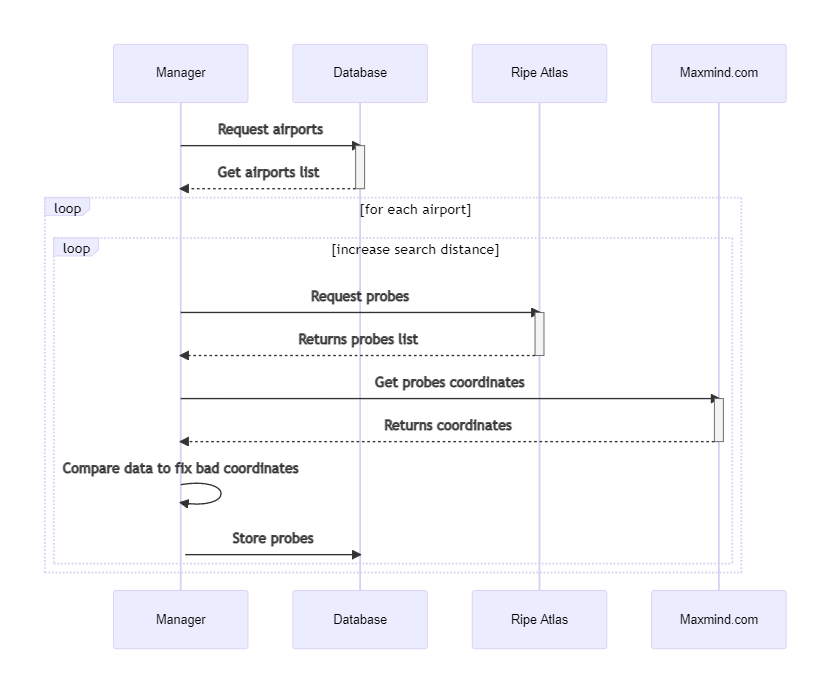
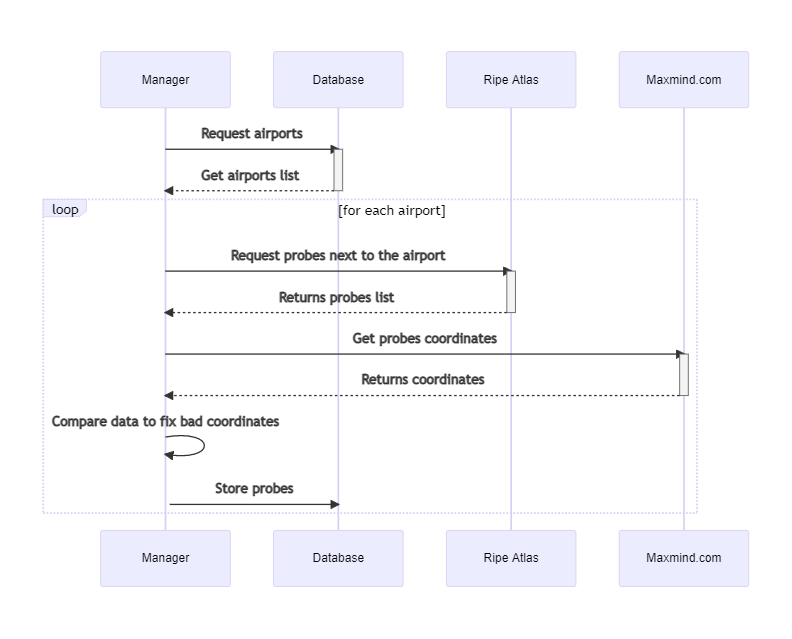
fix: diagram

diff --git a/README.md b/README.md
@@ -8,9 +8,9 @@
 
 ## Description
 
-FC Latency Map is a service for [Filecoin](https://filecoin.io/) decentralized storage network to obtain a world latencies of all active miners.
+FC Latency Map is a service for [Filecoin](https://filecoin.io/) decentralized storage network to obtain the global latencies of all active miners.
 
-It uses [Ripe Atlas](https://atlas.ripe.net/) to collect measurements of active miners from relevant locations in the world.
+It uses [Ripe Atlas](https://atlas.ripe.net/) to collect measurements of active miners from relevant locations around the world.
 
 ## Requirement
 
